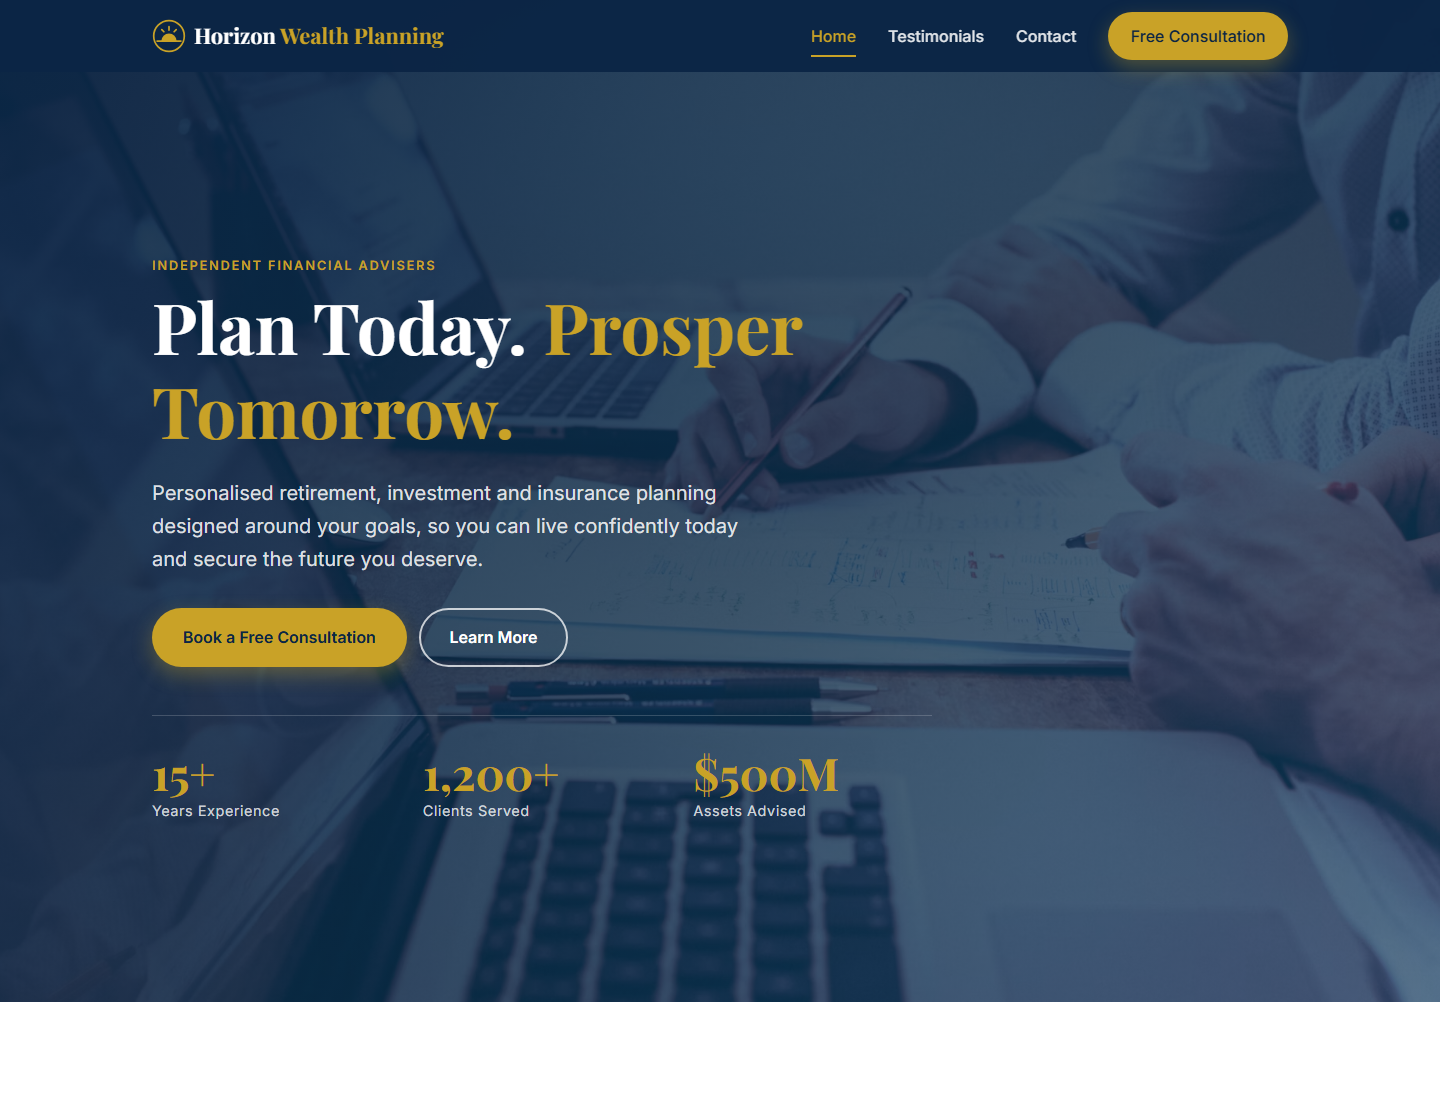
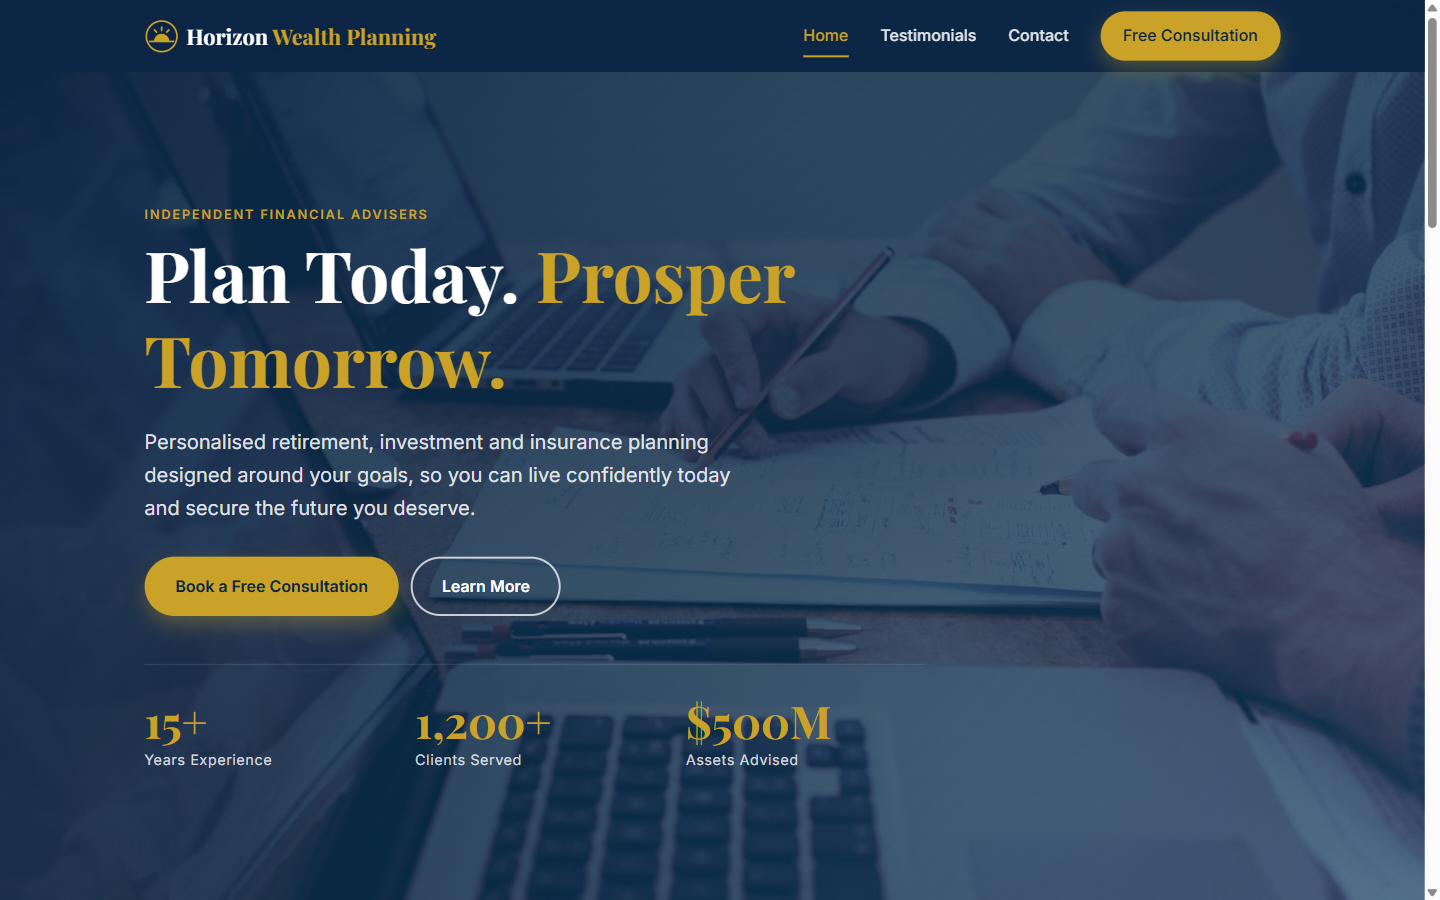
Refresh README screenshot with Playwright and document the capture step

diff --git a/README.md b/README.md
@@ -24,10 +24,14 @@ A one-page marketing site for a fictional financial planning firm, built with pl
 
 ```
 index.html                    # the whole site: markup, <style> and <script>
-docs/screenshot.png           # README screenshot
+docs/screenshot.png           # README screenshot (captured with Playwright)
 .github/workflows/pages.yml   # GitHub Pages deploy
+.claude/commands/             # /github-publish command for Claude Code
+.mcp.json                     # Playwright MCP server config
 CLAUDE.md                     # notes for Claude Code
 ```
+
+The screenshot is regenerated by `/github-publish`, which uses the Playwright MCP server to load the site at 1440 × 900 and save a viewport capture to `docs/screenshot.png`.
 
 ## Placeholder content
 
